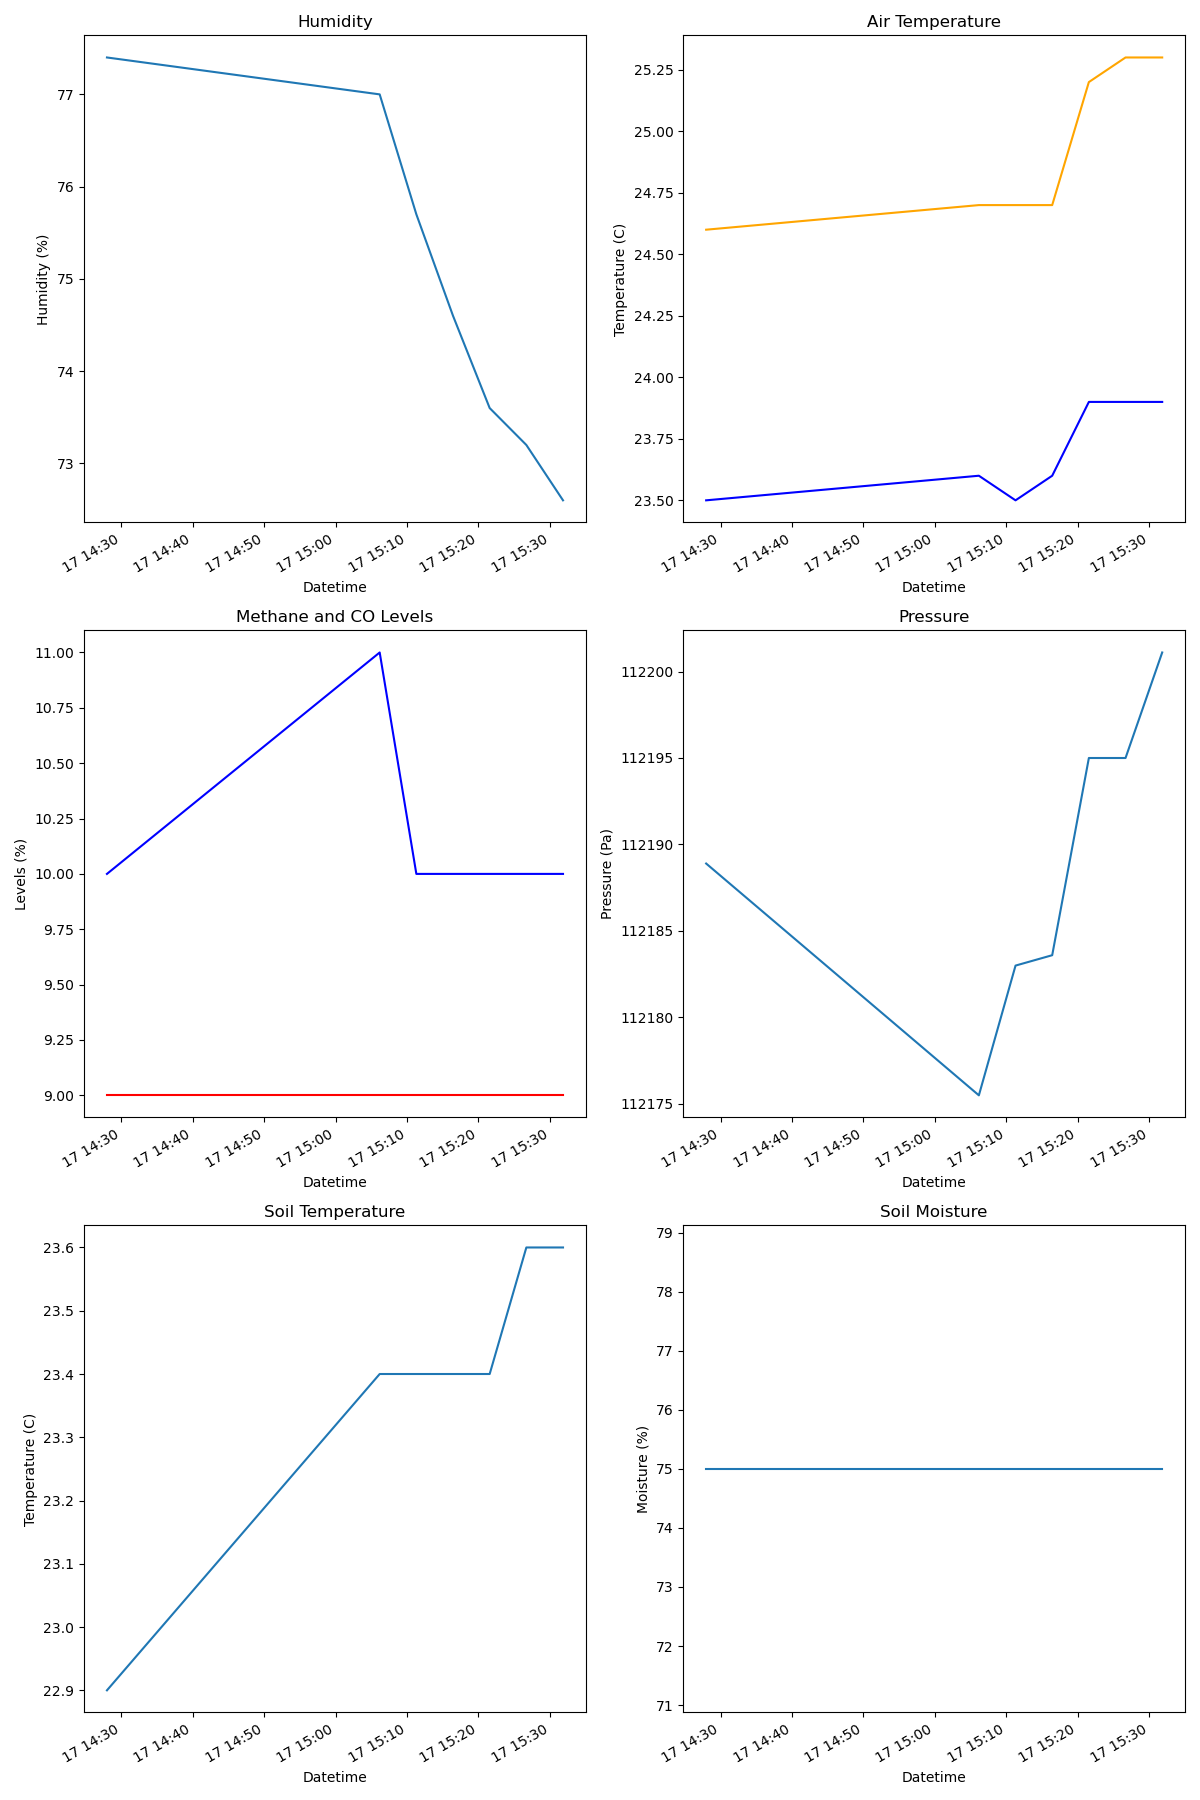
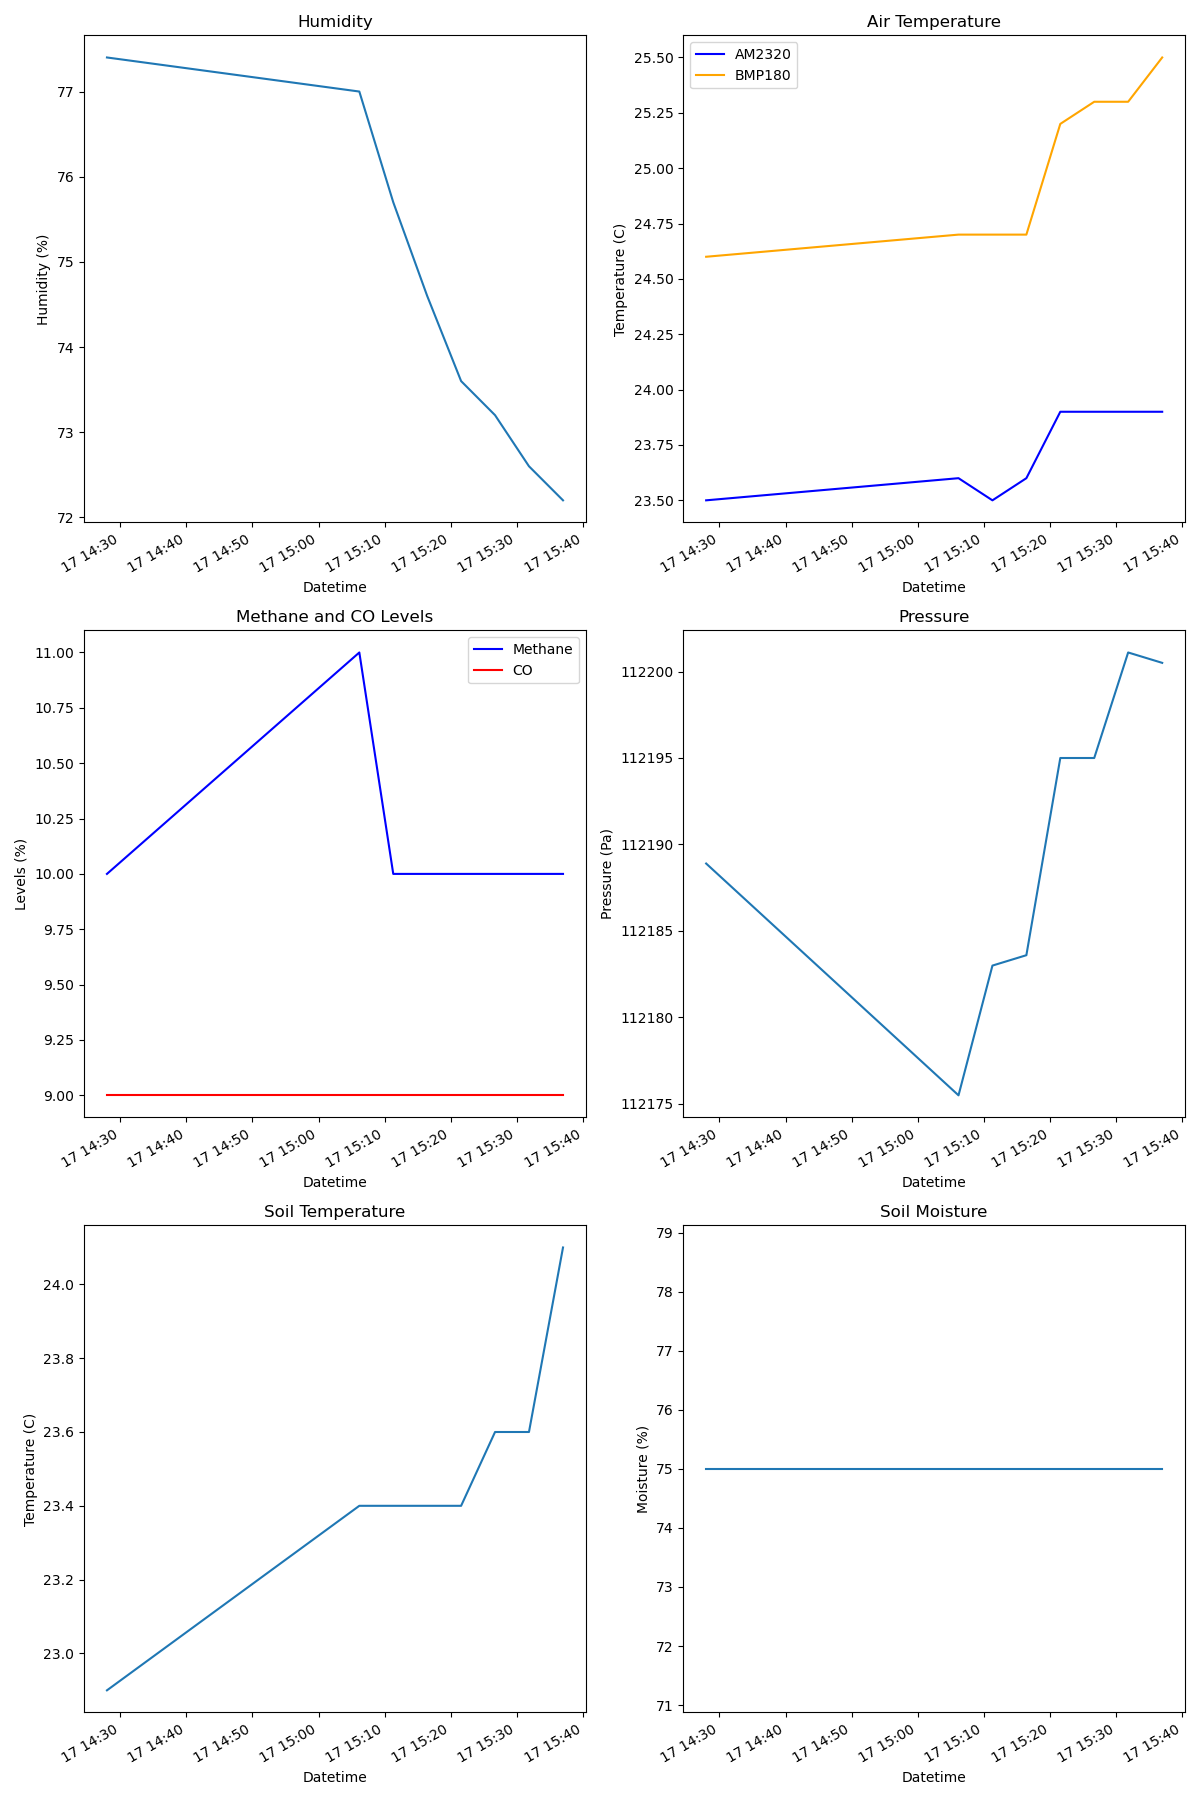
added legends to plot

diff --git a/plots.py b/plots.py
@@ -1,6 +1,7 @@
 import sqlite3
 import pandas as pd
 import matplotlib.pyplot as plt
+import os
 
 class Genplots():
 	def __init__(self):
@@ -38,12 +39,14 @@ class Genplots():
 		ax[0][1].set_title('Air Temperature')
 		ax[0][1].set_xlabel('Datetime')
 		ax[0][1].set_ylabel('Temperature (C)')
+		ax[0][1].legend()
 
 		self.data.methane_levels.plot(ax=ax[1][0], label='Methane', color='b')
 		self.data.CO_levels.plot(ax=ax[1][0], label='CO', color='r')
 		ax[1][0].set_title('Methane and CO Levels')
 		ax[1][0].set_xlabel('Datetime')
 		ax[1][0].set_ylabel('Levels (%)')
+		ax[1][0].legend()
 
 		self.data.pressure.plot(ax=ax[1][1])
 		ax[1][1].set_title('Pressure')
@@ -61,6 +64,8 @@ class Genplots():
 		ax[2][1].set_ylabel('Moisture (%)')
 
 		plt.tight_layout()
+
+		os.remove('plots/plots.png')
 
 		plt.savefig('plots/plots.png')
 
